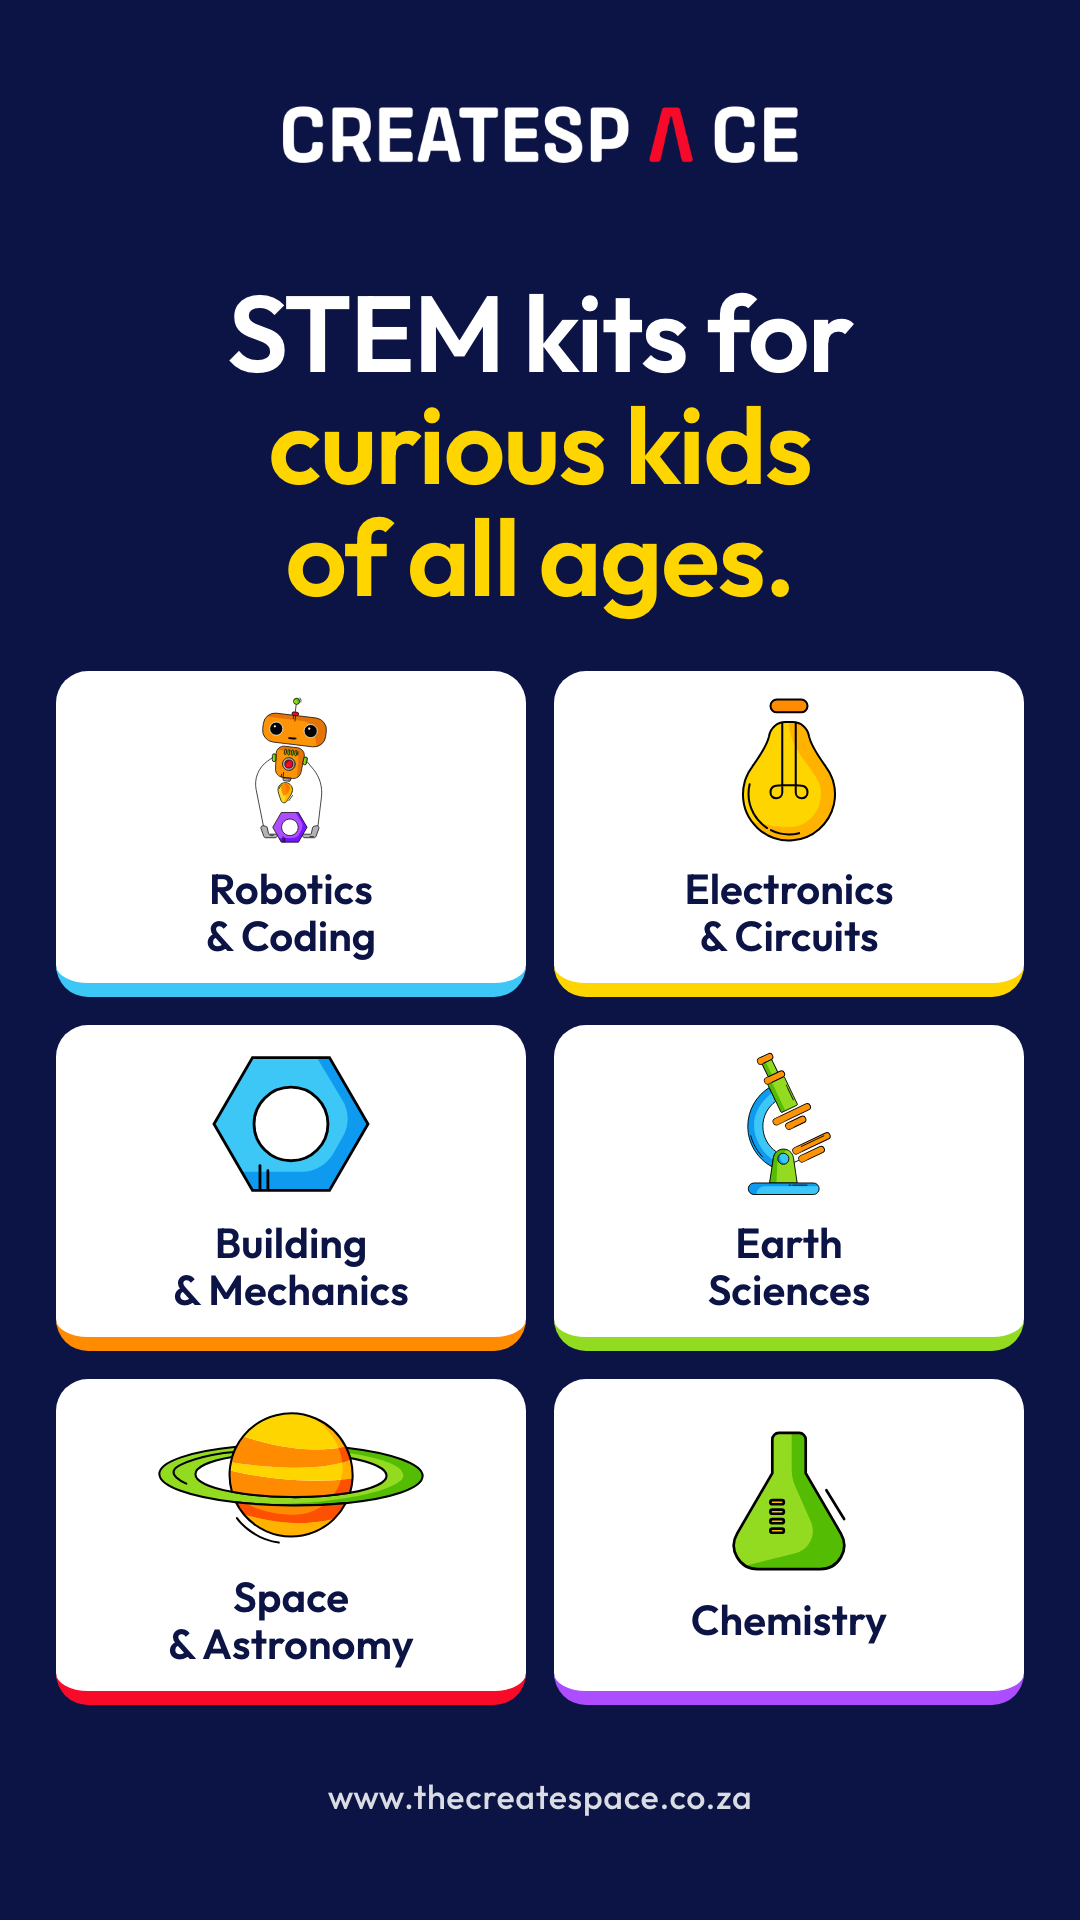
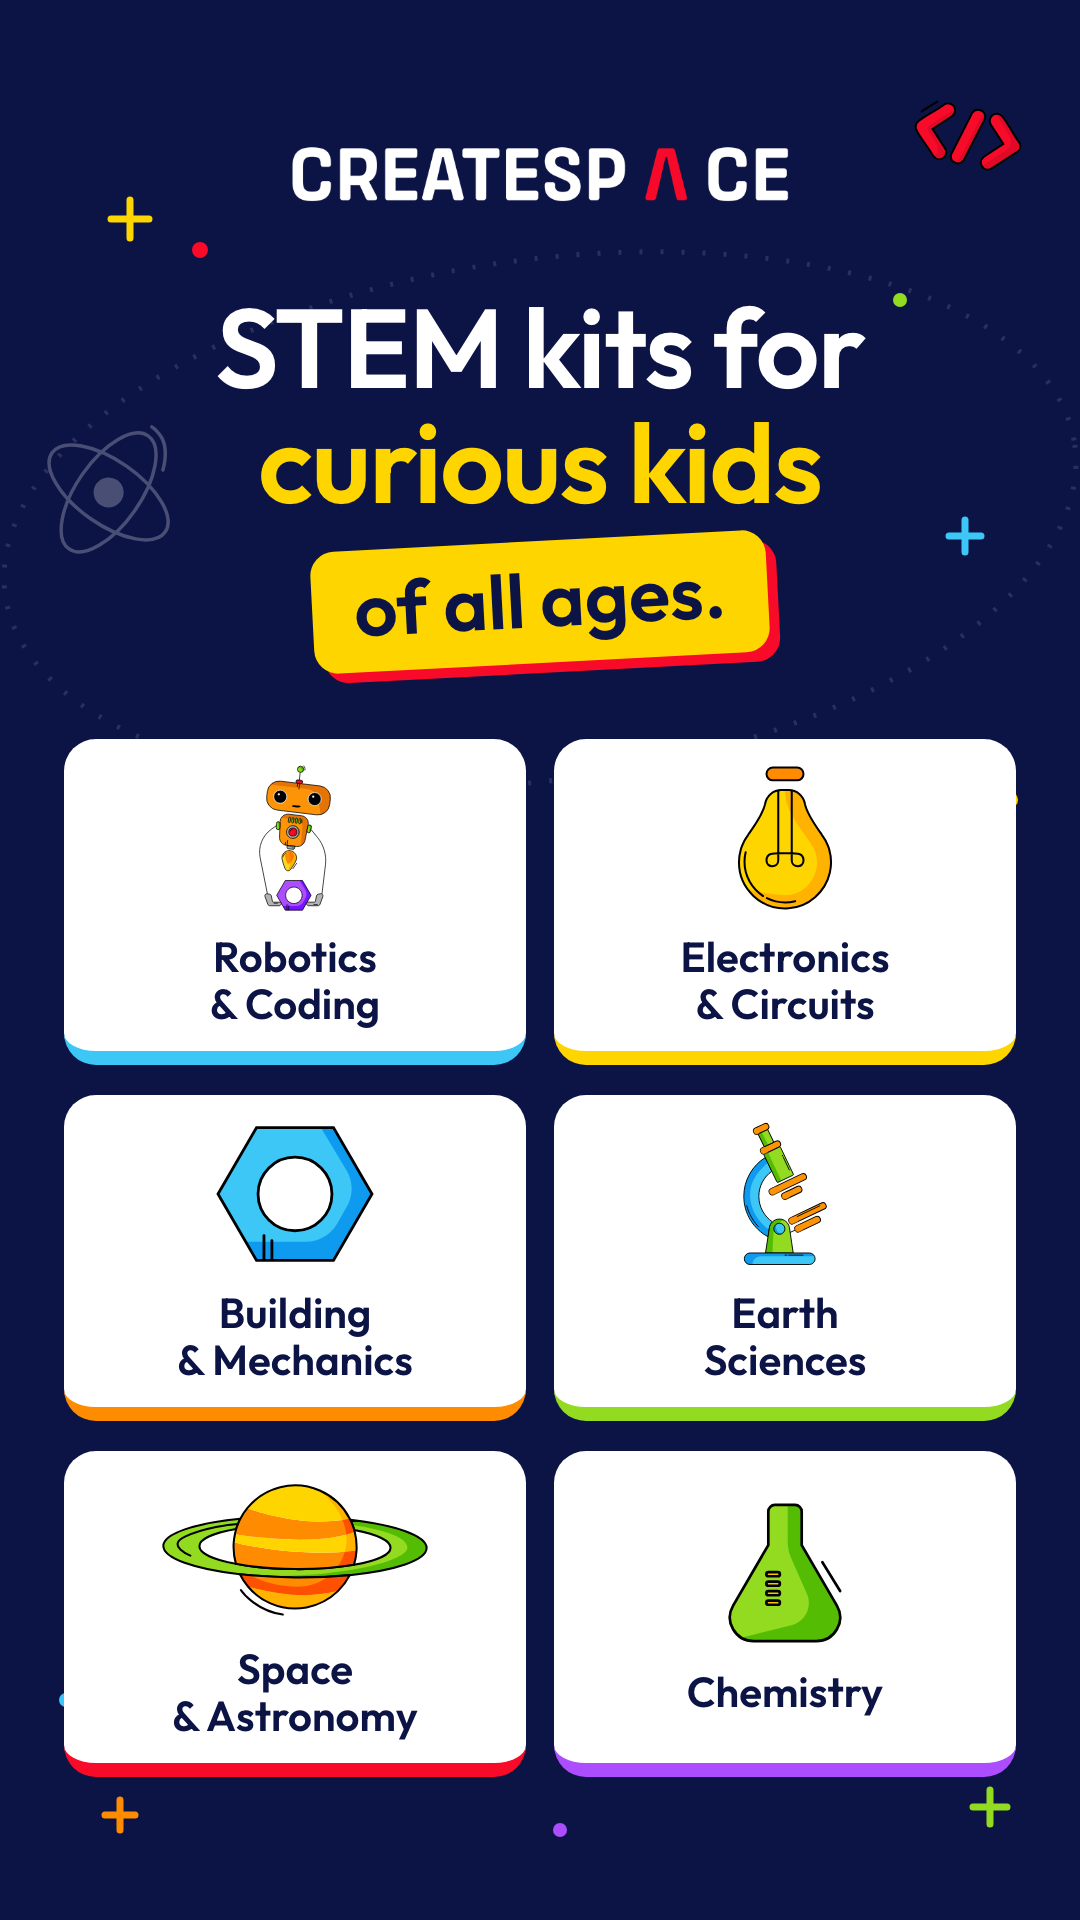
Bring the Instagram design to the Google cover, without the URL
Sticker, sparkles, orbit and doodles from the Instagram post, reflowed to
the portrait cover with everything inside the Search tile crop.

diff --git a/marketing/campaigns/2026-10-google-profile/cover-categories.html b/marketing/campaigns/2026-10-google-profile/cover-categories.html
@@ -1,6 +1,7 @@
 <!DOCTYPE html>
 <!--
-  Google Business Profile cover: the shop categories, portrait.
+  Google Business Profile cover: the shop categories, portrait. Same design as
+  instagram-categories.html, reflowed to two columns.
   The Search knowledge-panel tile shows about 0.62:1 from the centre, cutting
   ~90px top and bottom, so all content sits well inside that. The tile is
   shown at ~250px wide, so type and illustrations are set large.
@@ -14,28 +15,50 @@
   <script src="../../creative/kit/canvas.js"></script>
   <style>
     .canvas {
+      position: relative;
+      overflow: hidden;
       background: var(--cs-navy);
       color: var(--cs-white);
       display: flex;
       flex-direction: column;
       align-items: center;
       justify-content: center;
-      padding: 0 56px;
+      padding: 0 64px;
       text-align: center;
     }
-    .logo { width: 540px; height: auto; display: block; margin-bottom: 108px; }
+    .canvas > :not(.bg):not(.peek) { position: relative; }
+
+    /* Background: sparkles, an orbit and two doodles peeking in */
+    .bg { position: absolute; inset: 0; width: 100%; height: 100%; }
+    .peek { position: absolute; }
+
+    .logo { width: 520px; height: auto; display: block; margin-bottom: 84px; }
     h1 {
       font-weight: 600;
-      font-size: 108px;
-      line-height: 1.04;
+      font-size: 112px;
+      line-height: 1.02;
       letter-spacing: -0.015em;
-      margin: 0 0 58px;
+      margin: 0;
     }
     h1 em { font-style: normal; color: var(--cs-yellow); }
+    .sticker {
+      display: inline-block;
+      margin: 22px 0 76px;
+      background: var(--cs-yellow);
+      color: var(--cs-navy);
+      font-weight: 600;
+      font-size: 76px;
+      line-height: 1;
+      padding: 20px 42px 26px;
+      border-radius: 24px;
+      transform: rotate(-3deg);
+      box-shadow: 10px 10px 0 var(--cs-red);
+    }
+
     .grid {
       display: grid;
       grid-template-columns: repeat(2, 1fr);
-      gap: 28px;
+      gap: 30px 28px;
       width: 100%;
     }
     .tile {
@@ -51,21 +74,36 @@
       border-bottom: 14px solid var(--accent);
     }
     .tile img { height: 150px; width: auto; max-width: 290px; display: block; }
-    .url {
-      margin: 70px 0 0;
-      font-size: 34px;
-      font-weight: 500;
-      letter-spacing: 0.02em;
-      color: var(--cs-white);
-      opacity: 0.85;
-    }
     .tile span { font-size: 42px; font-weight: 600; line-height: 1.12; }
   </style>
 </head>
 <body>
   <main class="canvas">
+    <svg class="bg" viewBox="0 0 1080 1920" aria-hidden="true">
+      <g fill="none" stroke-linecap="round" stroke-width="7">
+        <path d="M130 200 v38 M111 219 h38" stroke="#ffd500"/>
+        <path d="M965 520 v32 M949 536 h32" stroke="#3cc7f7"/>
+        <path d="M95 760 v28 M81 774 h28" stroke="#ac4dff"/>
+        <path d="M990 1790 v34 M973 1807 h34" stroke="#93db21"/>
+        <path d="M120 1800 v30 M105 1815 h30" stroke="#ff8b00"/>
+      </g>
+      <g>
+        <circle cx="200" cy="250" r="8" fill="#f70b28"/>
+        <circle cx="900" cy="300" r="7" fill="#93db21"/>
+        <circle cx="1010" cy="800" r="8" fill="#ffd500"/>
+        <circle cx="66" cy="1700" r="7" fill="#3cc7f7"/>
+        <circle cx="560" cy="1830" r="7" fill="#ac4dff"/>
+      </g>
+      <!-- dashed orbit behind the headline -->
+      <ellipse cx="540" cy="520" rx="540" ry="260" fill="none" stroke="#ffffff" stroke-opacity="0.12" stroke-width="5" stroke-dasharray="3 18" transform="rotate(-8 540 520)"/>
+    </svg>
+    <img class="peek" src="../../creative/kit/illustrations/code-2.svg" alt="" style="width:120px; top:104px; right:52px; transform: rotate(12deg)">
+    <img class="peek" src="../../creative/kit/illustrations/atom-4.svg" alt="" style="width:130px; top:430px; left:48px; transform: rotate(-10deg); filter: brightness(0) invert(1); opacity: 0.25">
+
     <img class="logo" src="../../creative/kit/logo/logo-on-navy.png" alt="CREATESPACE">
-    <h1>STEM kits for<br><em>curious kids</em><br><em>of all ages.</em></h1>
+    <h1>STEM kits for<br><em>curious kids</em></h1>
+    <div class="sticker">of all ages.</div>
+
     <div class="grid">
       <div class="tile" style="--accent: var(--cs-blue)"><img src="../../creative/kit/illustrations/robot-1.svg" alt=""><span>Robotics<br>&amp; Coding</span></div>
       <div class="tile" style="--accent: var(--cs-yellow)"><img src="../../creative/kit/illustrations/lightbulb.svg" alt=""><span>Electronics<br>&amp; Circuits</span></div>
@@ -74,7 +112,6 @@
       <div class="tile" style="--accent: var(--cs-red)"><img src="../../creative/kit/illustrations/planet-1.svg" alt=""><span>Space<br>&amp; Astronomy</span></div>
       <div class="tile" style="--accent: var(--cs-purple)"><img src="../../creative/kit/illustrations/beaker-1.svg" alt=""><span>Chemistry</span></div>
     </div>
-    <p class="url">www.thecreatespace.co.za</p>
   </main>
 </body>
 </html>
